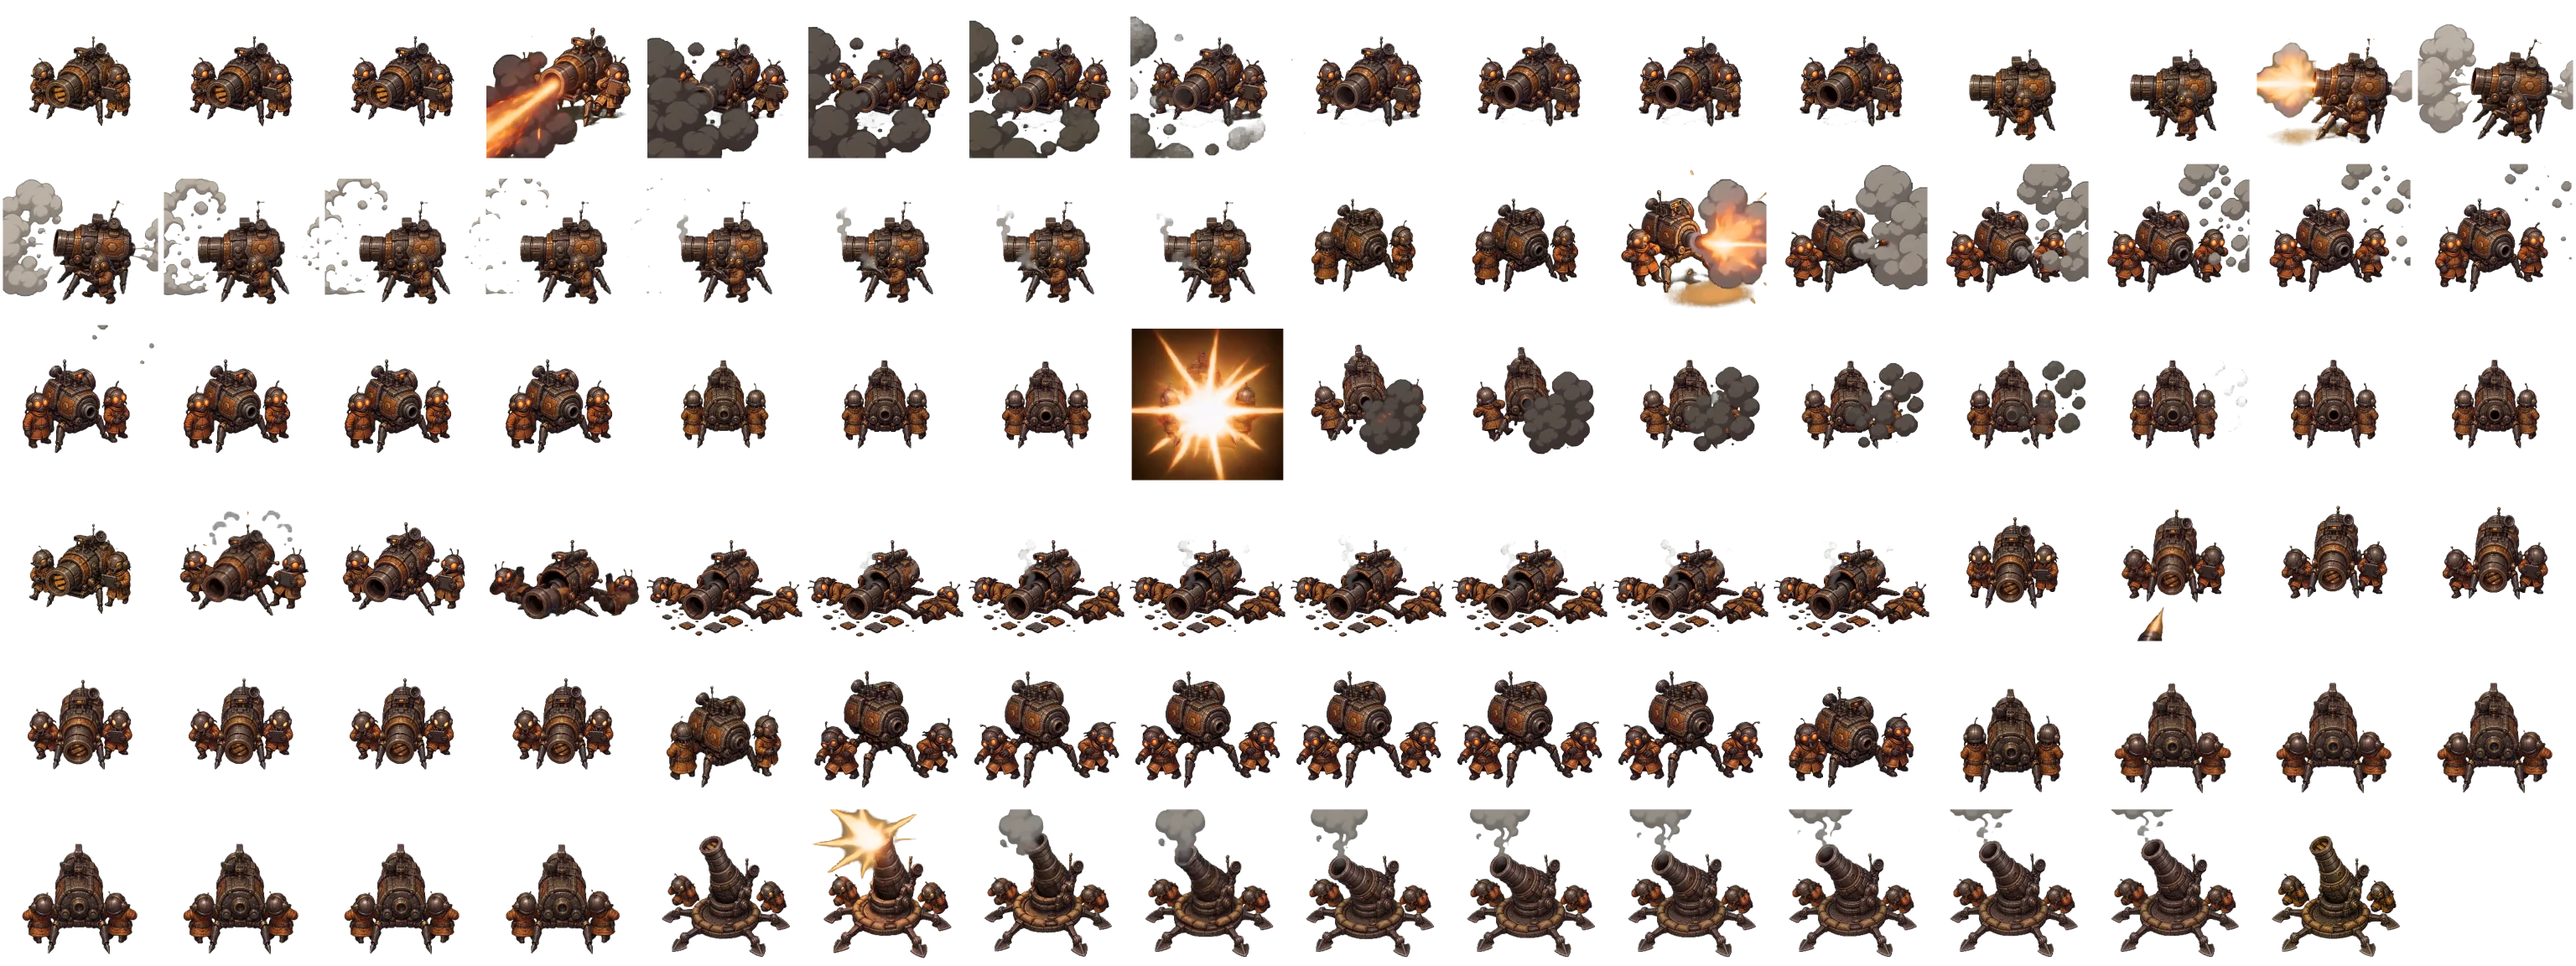
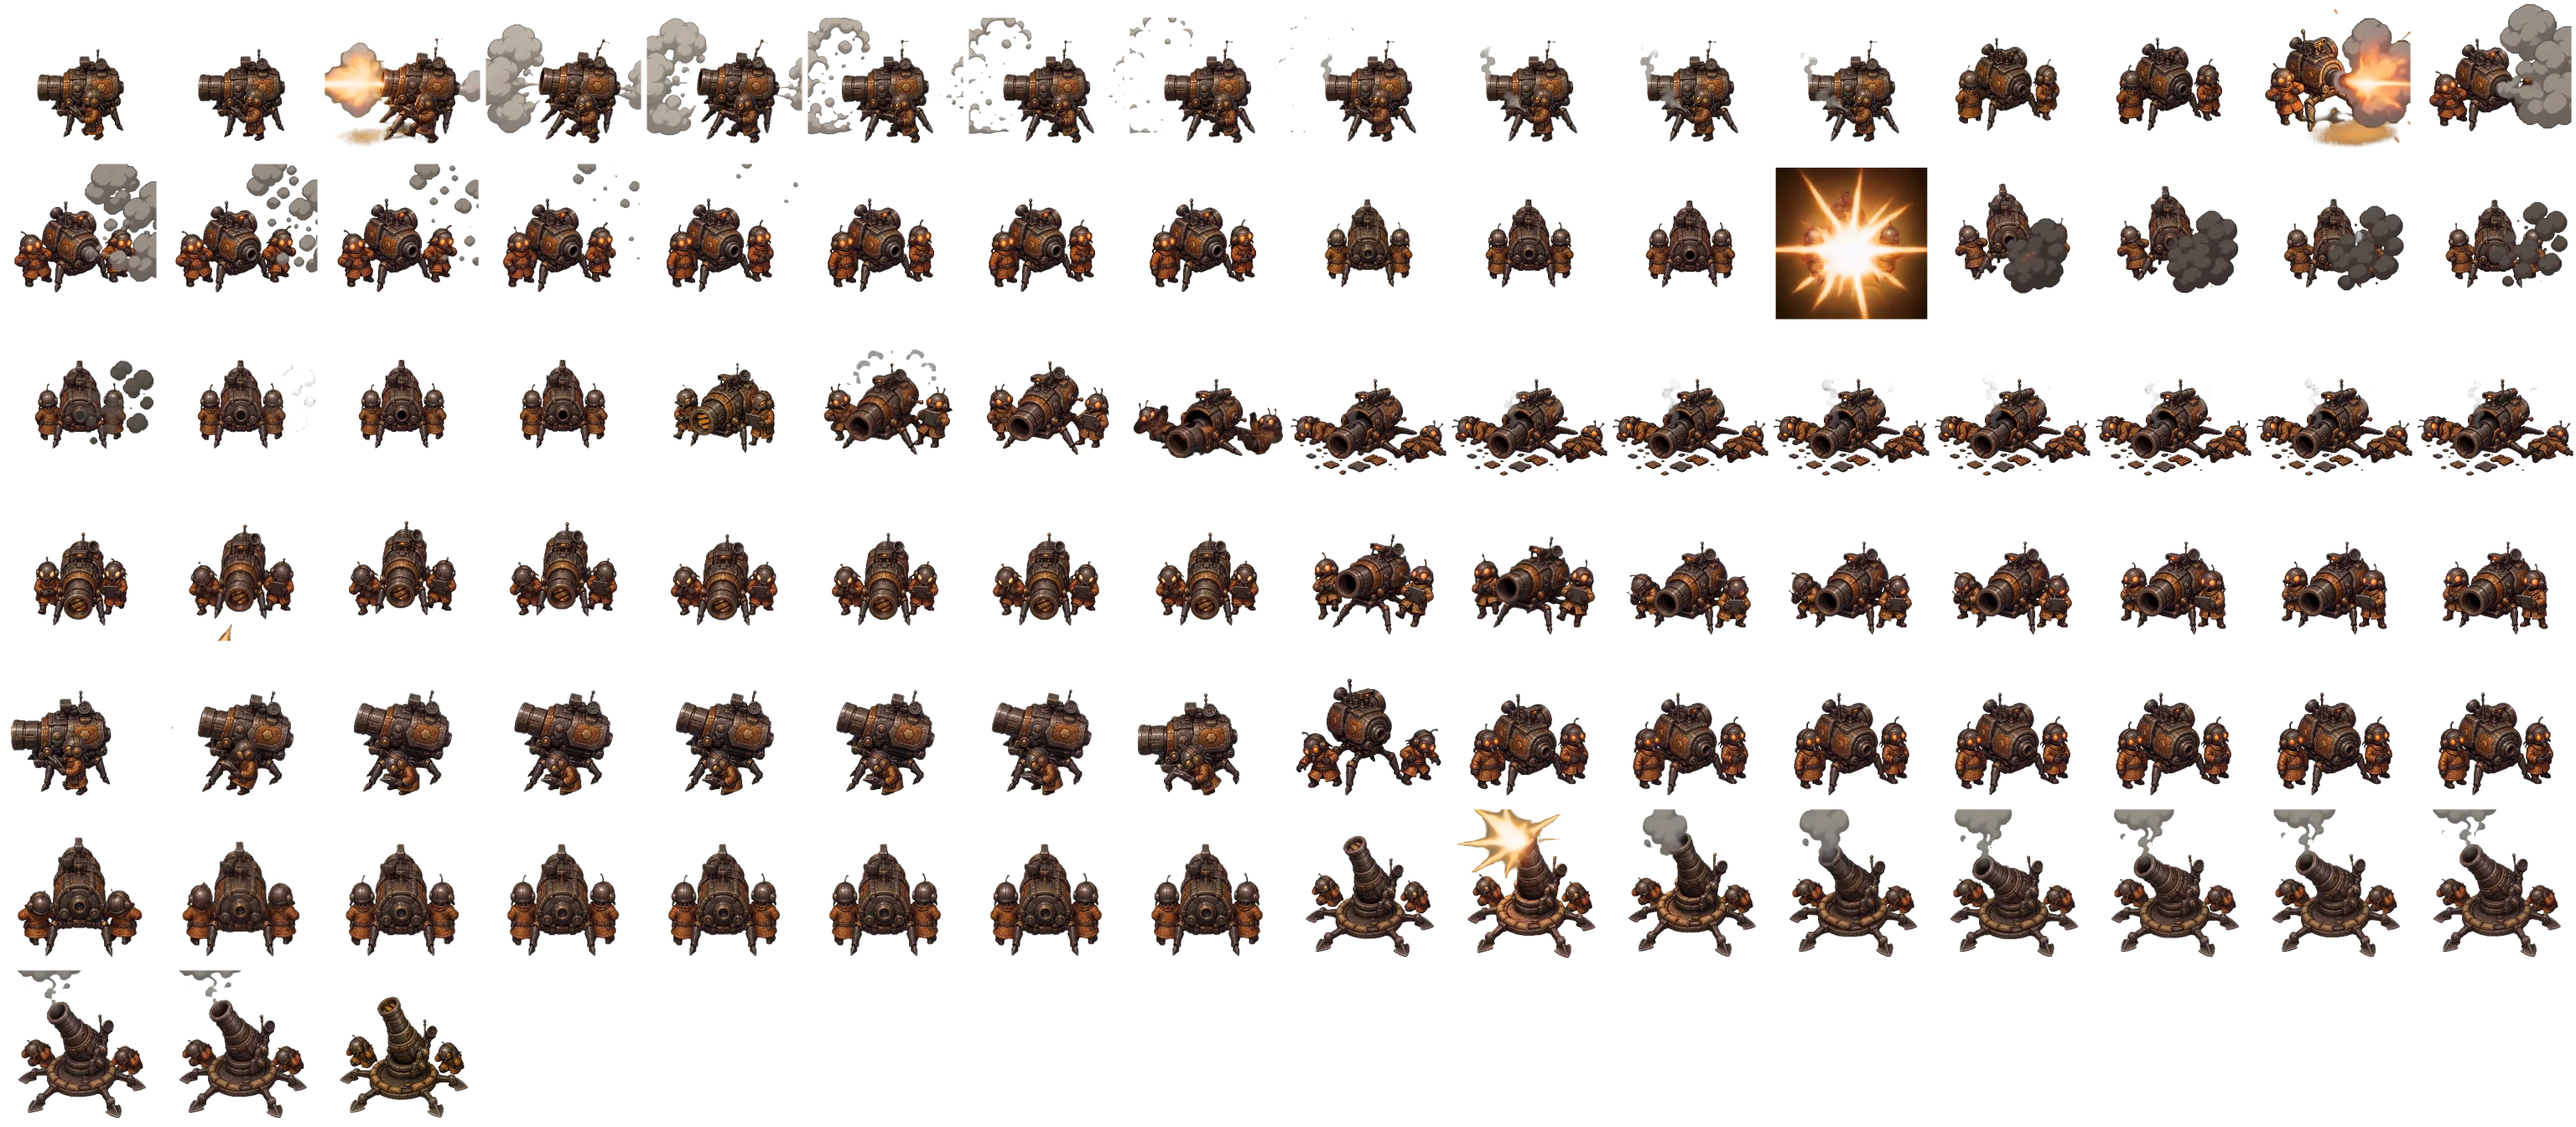
Broodfall effects and limbs: every limb withers (die clips), 13 engines and support limbs act, donor parts grafted at measured points, shots/shells/darts/bombs/lightning/beams/flame/clouds as pictures, beat builds its own copy (dist-fx); fx-art test; art budget 35 MB with the reason

diff --git a/games/broodfall/tests/iso.test.ts b/games/broodfall/tests/iso.test.ts
@@ -584,6 +584,8 @@ describe.skipIf(!hasArt)('the baked art', () => {
     walk(manifest);
     // 24 MB when units had only walks; Sep 29 2026 they gained attacks, falls and states
     // (about 11 MB for all 26), and the budget went to 30 rather than the units' quality down.
-    expect(total / 1024 / 1024).toBeLessThan(30);
+    // Sep 30 2026: every limb gained its withering and 13 limbs their acting clips (limbs 10.7 ->
+    // 15.0 MB), and the effects and donor parts came (0.4 MB): +5 MB, rather than fewer frames.
+    expect(total / 1024 / 1024).toBeLessThan(35);
   });
 });

diff --git a/games/broodfall/notes/screens/2026-09-30/README.md b/games/broodfall/notes/screens/2026-09-30/README.md
@@ -11,3 +11,12 @@ Every picture here is a screenshot of the real game in a browser, taken by a scr
 | `screens-11`, `screens-12` | the same for the campaign | the campaign report, territory taken and deployment failed, on the ship's glass |
 | `screens-13` | pictures on the organ cards | the Gene Bay: every organ card with its organ's scan picture |
 | `screens-14` to `screens-19` | error screens | each failure forced: the art list missing (14) with PLAY WITHOUT THE PICTURES (14b the plain menu, 15 the plain board); some pictures missing (16, a line over the board); the game's code failing while it loads (17); no WebGL (18: PixiJS draws on a plain canvas, a line says it will be slow and how to mend it); nothing to draw with at all (19) |
+| **`fx-01`, `fx-02`** | shots in flight were lines and dots | limbs firing at a column (`node tools/shot-fx.mjs shots`): the impaler's bone harpoon and the quill fan's quills, each turned along its flight, spit and sacs from the spitter and burster; 02 two ticks later, with splats where shots ended |
+| `fx-03`, `fx-04` | lobbed shells, bile, clots | the bombard's spore shell, the skipping mortar's bone shell, a bile glob and a creep clot in the air with shadows (03); golden spore bursts and acid splashes where they land (04) |
+| `fx-05`, `fx-06` | lightning arcs, the prism beam, the flame cone | the frond's forked lightning jumping on between bodies, the prisms' beams, the ocular's pale stare at a drummer, the ember sac's jet of flame, flames licking off the burning |
+| `fx-07`, `fx-08` | cannon shells were a brown dot beside the barrel; sedation darts; bombs | the hive's iron cannon shell and a teal sedation dart in flight, the mortar's finned bomb lobbed at a limb (07); a blast where a shell lands (08) |
+| `fx-09` | poison clouds, webs | units snared (a web over each), poisoned (a puff of poison) and burning (flames), a poison cloud and caltrop barbs on the street |
+| `limbs-01-*` | 13 limbs had only an idle | engines serving a spitter play their acting clip when it fires: the amplifier's drum-skin thump, the choir's pipes, the ward's ripple when a limb under it is struck (`-ward-acting`), capacitor and conduit where they are linked |
+| `limbs-02` to `limbs-04` | a limb's death | four limbs (spitter, frond, twin, burster) before, mid-withering, and as husks before they sink away |
+| `limbs-05` | stolen limbs | a researcher tears out a spitter: it is pulled up, shrinks and goes with him |
+| `limbs-06`, `limbs-07` | donor parts on cannibalized limbs | a maw carrying lasher, blighter and ocular pips shows a tendril, glands and an eye; a spitter with burster and quill pips, an impaler with brood eggs, a twin with an ember bladder; 07 the camera turned half a turn |
